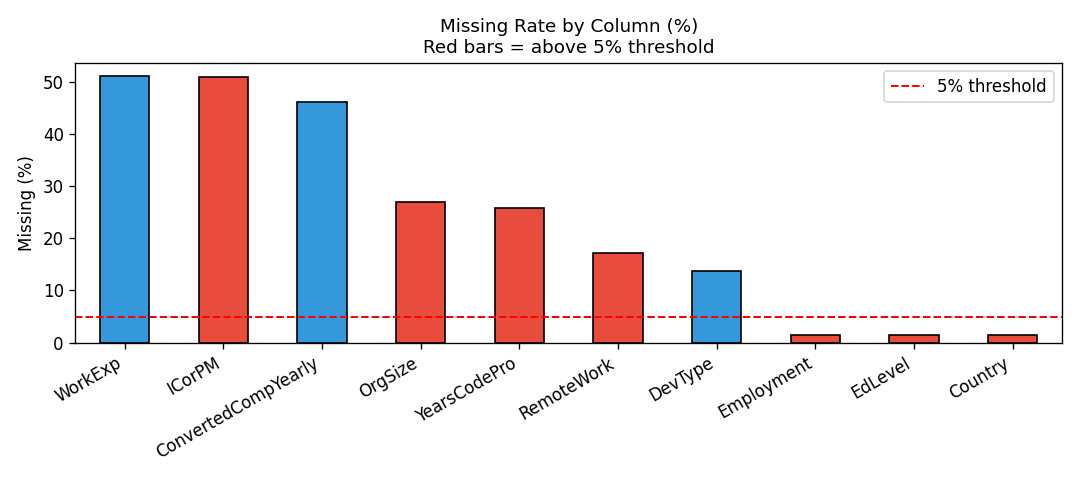
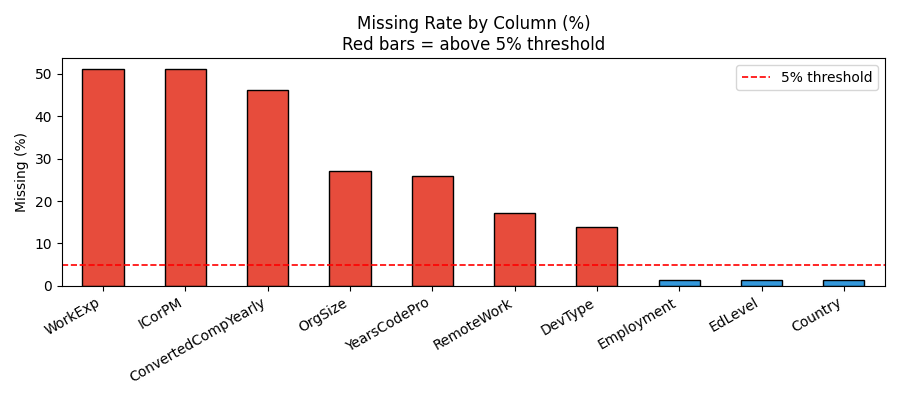
fix: correct color mapping in fig1 missing rate chart
Colors were computed before sorting, causing mismatched bar colors.
Now sort missing values first, then assign red/blue per sorted order.

diff --git a/part2/generate_figures.py b/part2/generate_figures.py
@@ -48,8 +48,9 @@ features = list(X_train.columns)
 print("Fig 1: Missing rate...")
 missing = df_raw.isnull().mean() * 100
 fig, ax = plt.subplots(figsize=(9, 4))
-colors = ['#e74c3c' if v >= 5 else '#3498db' for v in missing]
-missing.sort_values(ascending=False).plot(kind='bar', ax=ax, color=colors, edgecolor='black')
+missing_sorted = missing.sort_values(ascending=False)
+colors = ['#e74c3c' if v >= 5 else '#3498db' for v in missing_sorted]
+missing_sorted.plot(kind='bar', ax=ax, color=colors, edgecolor='black')
 ax.axhline(5, color='red', linestyle='--', linewidth=1.2, label='5% threshold')
 ax.set_title('Missing Rate by Column (%)\nRed bars = above 5% threshold')
 ax.set_ylabel('Missing (%)')
